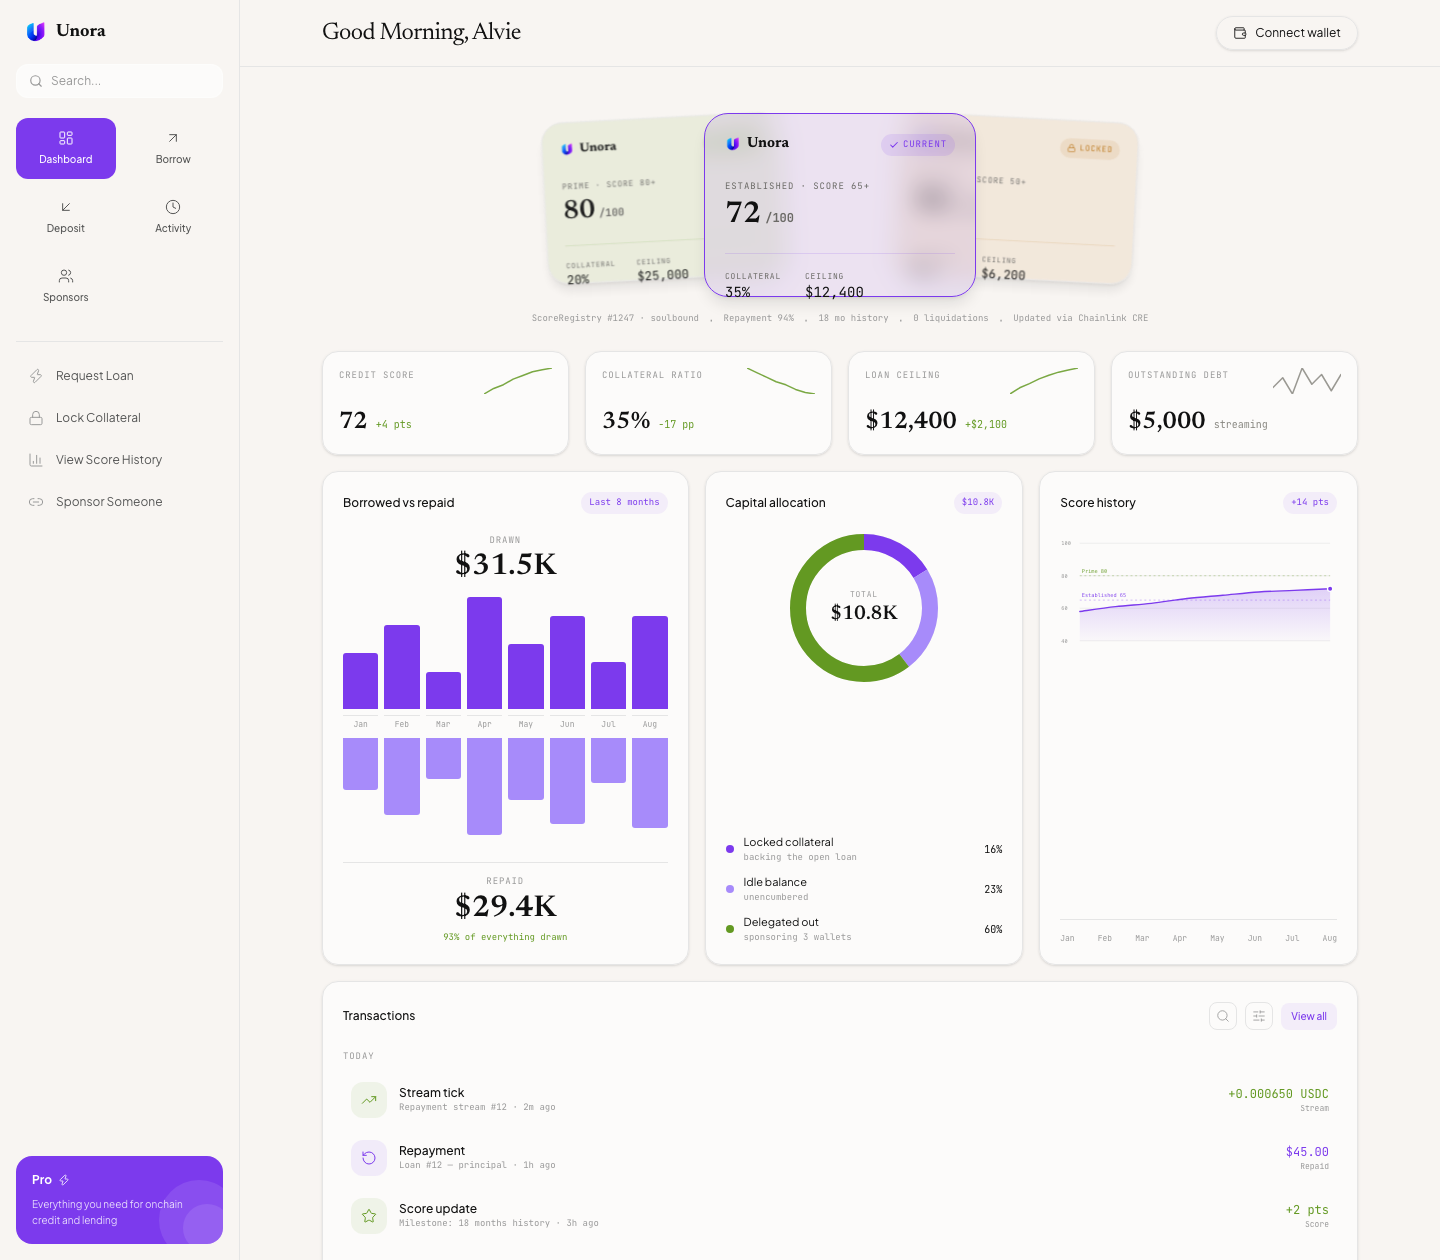
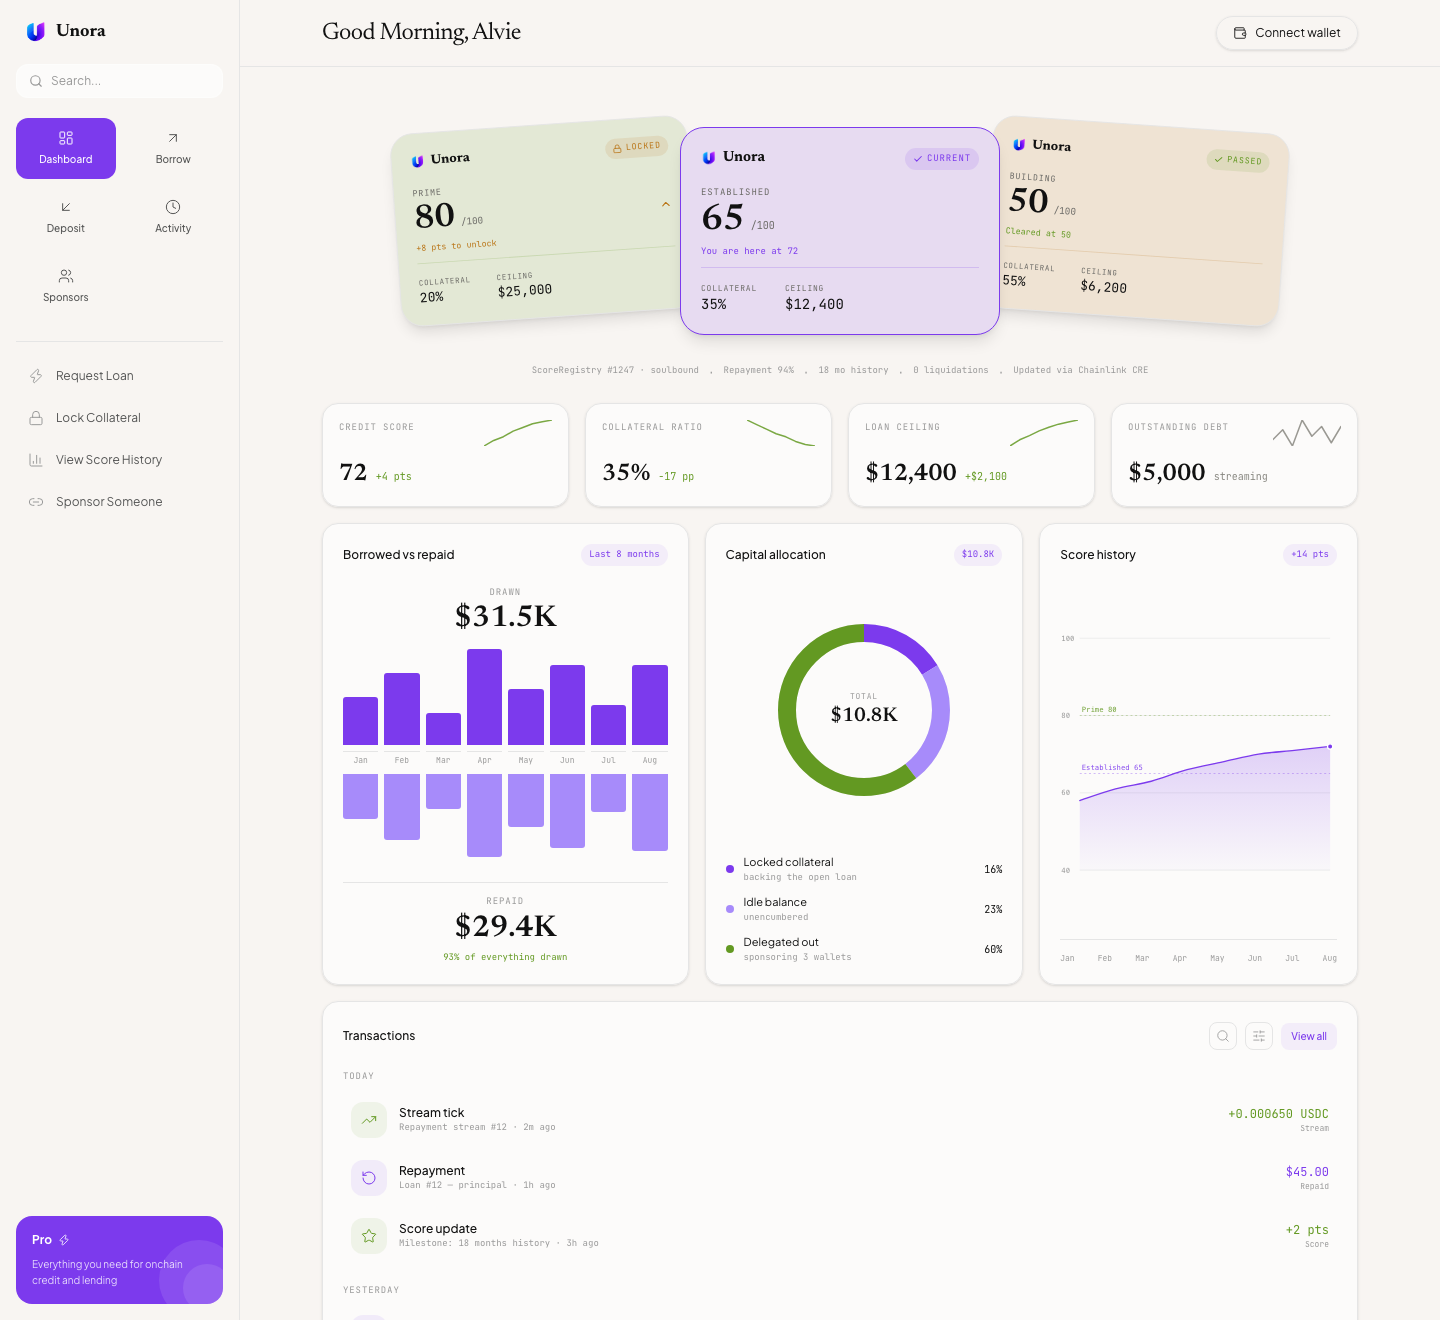
Fix tier deck cropping, widen cards, stop chart cards stretching
Tier deck:
- Cards widened 272 -> 320 and the spread raised 246 -> 296. Card content is
  left-aligned, so the spread must exceed the card padding or the tier name
  slides under the front card. All three rungs are now fully legible.
- Fixed a logic bug: 'Building' (score 50+) was marked Locked even though the
  wallet's score of 72 already clears it. Tier state is now relative to the
  wallet (current / cleared / locked) rather than a property of the tier.
- The big numeral is now the tier's entry score on every card, with a status
  line giving your position relative to it ('You are here at 72',
  '+8 pts to unlock', 'Cleared at 50'). Previously it showed the threshold on
  side cards and your score on the front one, which was ambiguous.

Charts:
- The three panels sat in one grid row, so the tallest stretched the other two
  and pooled the slack into a single gap. Content is now centred with my-auto,
  so the whitespace balances above and below instead.
- Gauge 148 -> 172, score plot viewBox 176 -> 380 so both fill their card.
- SVG axis labels were 8px in a 420-wide viewBox scaled to ~295px, i.e. ~5.6px
  on screen. Raised to 11.
- Bar heights 112 -> 96 to bring the row height down.

diff --git a/app/src/components/dashboard/TierDeck.tsx b/app/src/components/dashboard/TierDeck.tsx
@@ -1,11 +1,26 @@
 import { useState } from 'react';
 import { motion } from 'motion/react';
-import { Lock, Check } from 'lucide-react';
+import { Lock, Check, ChevronUp } from 'lucide-react';
 import { useTheme } from '@/contexts/ThemeContext';
 import { SCORE } from '@/lib/protocol';
-import { TIER_LADDER, type TierRung } from '@/lib/portfolio';
+import { TIER_LADDER, pointsToNextTier, type TierRung, type TierState } from '@/lib/portfolio';
 
 const ease = [0.22, 1, 0.36, 1] as const;
+
+const CARD_W = 320;
+const CARD_H = 208;
+/**
+ * Horizontal step between stacked cards, and therefore exactly how much of a side card
+ * stays visible. Card content is left-aligned, so the step has to exceed the card's own
+ * padding or the tier name slides under the front card — at the original 246 it did.
+ */
+const SPREAD = 296;
+
+const STATE_META: Record<TierState, { label: string; color: string }> = {
+  current: { label: 'Current', color: '#7C3AED' },
+  cleared: { label: 'Passed', color: '#639922' },
+  locked: { label: 'Locked', color: '#BA7517' },
+};
 
 /**
  * Fanned deck of score tiers. The front card is the rung the wallet sits on; the two
@@ -19,7 +34,7 @@ export default function TierDeck() {
 
   // Order is by deck position, front first. Seeded with the current tier in front.
   const [order, setOrder] = useState<number[]>(() => {
-    const current = TIER_LADDER.findIndex((t) => t.current);
+    const current = TIER_LADDER.findIndex((t) => t.state === 'current');
     const rest = TIER_LADDER.map((_, i) => i).filter((i) => i !== current);
     return [current, ...rest];
   });
@@ -29,20 +44,20 @@ export default function TierDeck() {
   }
 
   return (
-    <div className="relative h-[212px] flex items-center justify-center select-none">
-      {order.map((tierIndex, position) => {
-        const tier = TIER_LADDER[tierIndex];
-        return (
-          <TierCard
-            key={tier.name}
-            tier={tier}
-            position={position}
-            total={order.length}
-            onSelect={() => bringToFront(tierIndex)}
-            borderColor={colors.border}
-          />
-        );
-      })}
+    <div
+      className="relative flex items-center justify-center select-none"
+      style={{ height: CARD_H + 56 }}
+    >
+      {order.map((tierIndex, position) => (
+        <TierCard
+          key={TIER_LADDER[tierIndex].name}
+          tier={TIER_LADDER[tierIndex]}
+          position={position}
+          total={order.length}
+          onSelect={() => bringToFront(tierIndex)}
+          borderColor={colors.border}
+        />
+      ))}
     </div>
   );
 }
@@ -61,20 +76,32 @@ function TierCard({
   borderColor: string;
 }) {
   const isFront = position === 0;
+  const meta = STATE_META[tier.state];
 
   // Front card sits centre; the rest fan out symmetrically to either side.
   const side = position === 0 ? 0 : position % 2 === 1 ? -1 : 1;
   const depth = Math.ceil(position / 2);
-  const offsetX = side * depth * 176;
-  const offsetY = isFront ? 0 : -7 * depth;
-  const scale = isFront ? 1 : 0.88 - (depth - 1) * 0.03;
-  const rotate = side * depth * 3;
+  const offsetX = side * depth * SPREAD;
+  const offsetY = isFront ? 0 : -10 * depth;
+  const scale = isFront ? 1 : 0.93 - (depth - 1) * 0.03;
+  const rotate = side * depth * 4;
+
+  // The status line is the only place the wallet's own score appears on a side card.
+  const next = pointsToNextTier(SCORE.value);
+  const status =
+    tier.state === 'current'
+      ? `You are here at ${SCORE.value}`
+      : tier.state === 'cleared'
+        ? `Cleared at ${tier.minScore}`
+        : next && next.rung.name === tier.name
+          ? `+${next.gap} pts to unlock`
+          : `Unlocks at ${tier.minScore}`;
 
   return (
     <motion.button
       type="button"
       onClick={onSelect}
-      aria-label={`${tier.name} tier — score ${tier.minScore}+`}
+      aria-label={`${tier.name} tier — ${meta.label}, requires score ${tier.minScore}`}
       initial={false}
       animate={{
         x: offsetX,
@@ -82,19 +109,20 @@ function TierCard({
         scale,
         rotate,
         zIndex: total - position,
-        opacity: isFront ? 1 : 0.94,
       }}
       transition={{ duration: 0.55, ease }}
-      whileHover={isFront ? undefined : { scale: scale + 0.03, y: offsetY - 4 }}
-      className="absolute w-[272px] h-[184px] rounded-3xl p-5 text-left border shadow-lg"
+      whileHover={isFront ? undefined : { scale: scale + 0.025, y: offsetY - 5 }}
+      className="absolute rounded-3xl p-5 text-left border shadow-lg flex flex-col"
       style={{
+        width: CARD_W,
+        height: CARD_H,
         backgroundColor: tier.fill,
         borderColor: isFront ? tier.color : borderColor,
         cursor: isFront ? 'default' : 'pointer',
       }}
     >
-      {/* Top row */}
-      <div className="flex items-start justify-between mb-6">
+      {/* Wordmark + state badge */}
+      <div className="flex items-start justify-between mb-4">
         <div className="flex items-center gap-1.5">
           <img src="/Unora icon.png" alt="" className="h-4 w-auto" />
           <span className="font-serif font-bold text-sm" style={{ color: '#111111' }}>
@@ -103,33 +131,49 @@ function TierCard({
         </div>
 
         <div
-          className="flex items-center gap-1 px-2 py-1 rounded-full"
-          style={{ backgroundColor: `${tier.color}1F` }}
+          className="flex items-center gap-1 px-2 py-1 rounded-full shrink-0"
+          style={{ backgroundColor: `${meta.color}1F` }}
         >
-          {tier.locked ? (
-            <Lock className="w-2.5 h-2.5" style={{ color: tier.color }} strokeWidth={2} />
+          {tier.state === 'locked' ? (
+            <Lock className="w-2.5 h-2.5" style={{ color: meta.color }} strokeWidth={2} />
           ) : (
-            <Check className="w-2.5 h-2.5" style={{ color: tier.color }} strokeWidth={2.5} />
+            <Check className="w-2.5 h-2.5" style={{ color: meta.color }} strokeWidth={2.5} />
           )}
-          <span className="font-mono text-[9px] uppercase tracking-widest" style={{ color: tier.color }}>
-            {tier.current ? 'Current' : tier.locked ? 'Locked' : 'Tier'}
+          <span className="font-mono text-[9px] uppercase tracking-widest" style={{ color: meta.color }}>
+            {meta.label}
           </span>
         </div>
       </div>
 
-      {/* Tier name + threshold */}
-      <div className="mb-5">
-        <div className="font-mono text-[9px] uppercase tracking-widest mb-1" style={{ color: '#6B6A66' }}>
-          {tier.name} · score {tier.minScore}+
-        </div>
-        <div className="font-serif text-3xl font-semibold tabular-nums" style={{ color: '#111111' }}>
-          {tier.current ? SCORE.value : tier.minScore}
-          <span className="font-mono text-xs ml-1" style={{ color: '#6B6A66' }}>/100</span>
-        </div>
+      {/* Tier name and the score bar it sits at */}
+      <div className="font-mono text-[9px] uppercase tracking-widest mb-1" style={{ color: '#6B6A66' }}>
+        {tier.name}
       </div>
 
-      {/* Terms */}
-      <div className="flex items-center gap-6 pt-4 border-t" style={{ borderColor: `${tier.color}26` }}>
+      <div className="flex items-baseline gap-1.5">
+        <span
+          className="font-serif text-4xl font-semibold tabular-nums leading-none"
+          style={{ color: '#111111' }}
+        >
+          {tier.minScore}
+        </span>
+        <span className="font-mono text-[10px]" style={{ color: '#6B6A66' }}>
+          /100
+        </span>
+        {tier.state === 'locked' && (
+          <ChevronUp className="w-3.5 h-3.5 ml-auto" style={{ color: meta.color }} strokeWidth={2} />
+        )}
+      </div>
+
+      <div className="font-mono text-[9px] mt-1.5" style={{ color: meta.color }}>
+        {status}
+      </div>
+
+      {/* Terms at this rung */}
+      <div
+        className="flex items-center gap-7 mt-auto pt-3.5 border-t"
+        style={{ borderColor: `${tier.color}33` }}
+      >
         <div>
           <div className="font-mono text-[8px] uppercase tracking-widest" style={{ color: '#6B6A66' }}>
             Collateral

diff --git a/app/src/components/dashboard/PortfolioCharts.tsx b/app/src/components/dashboard/PortfolioCharts.tsx
@@ -76,7 +76,7 @@ export function BorrowRepayChart() {
       </div>
 
       {/* Bars — up for drawn, down for repaid. */}
-      <div className="flex items-end gap-1.5 h-[112px]">
+      <div className="flex items-end gap-1.5 h-[96px]">
         {MONTHS.map((month, i) => (
           <div key={month} className="flex-1 flex flex-col justify-end h-full">
             <motion.div
@@ -103,7 +103,7 @@ export function BorrowRepayChart() {
         ))}
       </div>
 
-      <div className="flex items-start gap-1.5 h-[112px]">
+      <div className="flex items-start gap-1.5 h-[96px]">
         {MONTHS.map((month, i) => (
           <div key={month} className="flex-1 flex flex-col justify-start h-full">
             <motion.div
@@ -138,8 +138,8 @@ export function CollateralGauge() {
   const colors = useTheme();
 
   const total = allocationTotal();
-  const size = 148;
-  const stroke = 16;
+  const size = 172;
+  const stroke = 18;
   const radius = (size - stroke) / 2;
   const circumference = 2 * Math.PI * radius;
 
@@ -150,7 +150,8 @@ export function CollateralGauge() {
 
   return (
     <Panel title="Capital allocation" meta={formatCompact(total)} delay={0.3}>
-      <div className="relative mx-auto" style={{ width: size, height: size }}>
+      {/* my-auto centres it in the free space, so equal-height cards don't pool whitespace. */}
+      <div className="relative my-auto mx-auto" style={{ width: size, height: size }}>
         <svg width={size} height={size} className="-rotate-90">
           <circle
             cx={size / 2}
@@ -192,7 +193,7 @@ export function CollateralGauge() {
         </div>
       </div>
 
-      <div className="mt-auto pt-5 space-y-2.5">
+      <div className="pt-5 space-y-2.5">
         {ALLOCATION.map((slice) => (
           <div key={slice.label} className="flex items-center gap-2.5">
             <span className="w-2 h-2 rounded-full shrink-0" style={{ backgroundColor: slice.color }} />
@@ -243,7 +244,7 @@ export function ScoreHistoryChart() {
   const colors = useTheme();
 
   const w = 420;
-  const h = 176;
+  const h = 380;
   const padX = 30;
   const padY = 14;
   const yMin = 40;
@@ -265,7 +266,13 @@ export function ScoreHistoryChart() {
 
   return (
     <Panel title="Score history" meta="+14 pts" delay={0.35}>
-      <svg viewBox={`0 0 ${w} ${h}`} className="w-full h-auto" role="img" aria-label="Credit score by month">
+      {/* my-auto centres the plot in the free space — same reasoning as the gauge. */}
+      <svg
+        viewBox={`0 0 ${w} ${h}`}
+        className="w-full h-auto my-auto"
+        role="img"
+        aria-label="Credit score by month"
+      >
         <defs>
           <linearGradient id="score-fill" x1="0" y1="0" x2="0" y2="1">
             <stop offset="0%" stopColor="#7C3AED" stopOpacity="0.22" />
@@ -284,7 +291,7 @@ export function ScoreHistoryChart() {
               stroke={colors.border}
               strokeWidth="1"
             />
-            <text x={2} y={y(tick) + 3} fontSize="8" fill={colors.textMuted} fontFamily="monospace">
+            <text x={2} y={y(tick) + 4} fontSize="11" fill={colors.textMuted} fontFamily="monospace">
               {tick}
             </text>
           </g>
@@ -305,8 +312,8 @@ export function ScoreHistoryChart() {
             />
             <text
               x={padX + 3}
-              y={y(t.score) - 4}
-              fontSize="8"
+              y={y(t.score) - 6}
+              fontSize="11"
               fill={t.color}
               opacity="0.9"
               fontFamily="monospace"
@@ -350,7 +357,7 @@ export function ScoreHistoryChart() {
       </svg>
 
       <div
-        className="flex items-center justify-between mt-auto pt-3 border-t"
+        className="flex items-center justify-between mt-4 pt-3 border-t"
         style={{ borderColor: colors.border }}
       >
         {MONTHS.map((month) => (

diff --git a/app/src/lib/portfolio.ts b/app/src/lib/portfolio.ts
@@ -102,18 +102,23 @@ export const STAT_CARDS: StatCard[] = [
 /**
  * The tier ladder the score climbs. Mirrors `TIERS` in `lib/sponsorNetwork` so the
  * dashboard and the sponsor graph agree on what a score band is called.
+ *
+ * `state` is relative to the wallet's current score, not a property of the tier:
+ *   current — the rung the score sits on
+ *   cleared — a lower rung already passed, and still passed if the score dips a little
+ *   locked  — not yet reached
  */
+export type TierState = 'current' | 'cleared' | 'locked';
+
 export interface TierRung {
   name: string;
+  /** Score needed to reach this rung. */
   minScore: number;
   ratio: string;
   ceiling: string;
   color: string;
   fill: string;
-  /** True for the rung the wallet currently sits on. */
-  current?: boolean;
-  /** True for rungs not yet unlocked. */
-  locked?: boolean;
+  state: TierState;
 }
 
 export const TIER_LADDER: TierRung[] = [
@@ -124,7 +129,7 @@ export const TIER_LADDER: TierRung[] = [
     ceiling: '$25,000',
     color: '#639922',
     fill: '#E3E8D5',
-    locked: true,
+    state: 'locked',
   },
   {
     name: 'Established',
@@ -133,7 +138,7 @@ export const TIER_LADDER: TierRung[] = [
     ceiling: '$12,400',
     color: '#7C3AED',
     fill: '#E7DBF1',
-    current: true,
+    state: 'current',
   },
   {
     name: 'Building',
@@ -142,9 +147,17 @@ export const TIER_LADDER: TierRung[] = [
     ceiling: '$6,200',
     color: '#BA7517',
     fill: '#EFE3D3',
-    locked: true,
+    state: 'cleared',
   },
 ];
+
+/** Points still needed for the next rung up, or null if already at the top. */
+export function pointsToNextTier(score: number): { rung: TierRung; gap: number } | null {
+  const next = [...TIER_LADDER]
+    .filter((tier) => tier.minScore > score)
+    .sort((a, b) => a.minScore - b.minScore)[0];
+  return next ? { rung: next, gap: next.minScore - score } : null;
+}
 
 /** Compact money formatting — `$12.4K`. */
 export function formatCompact(value: number): string {
